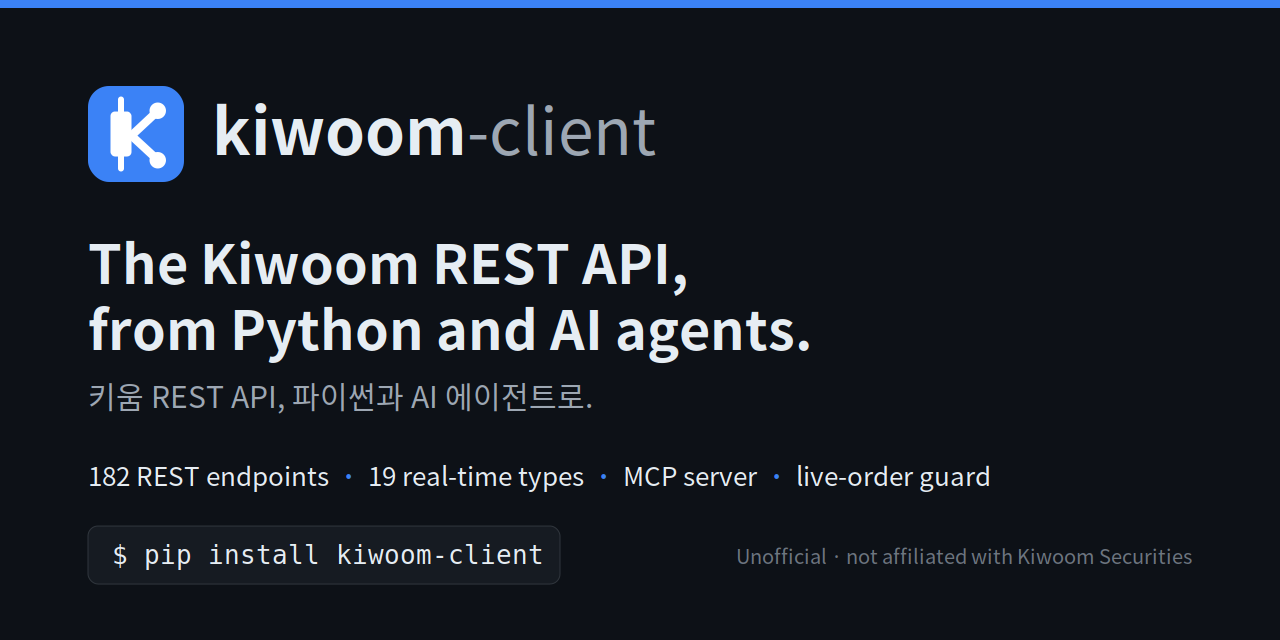
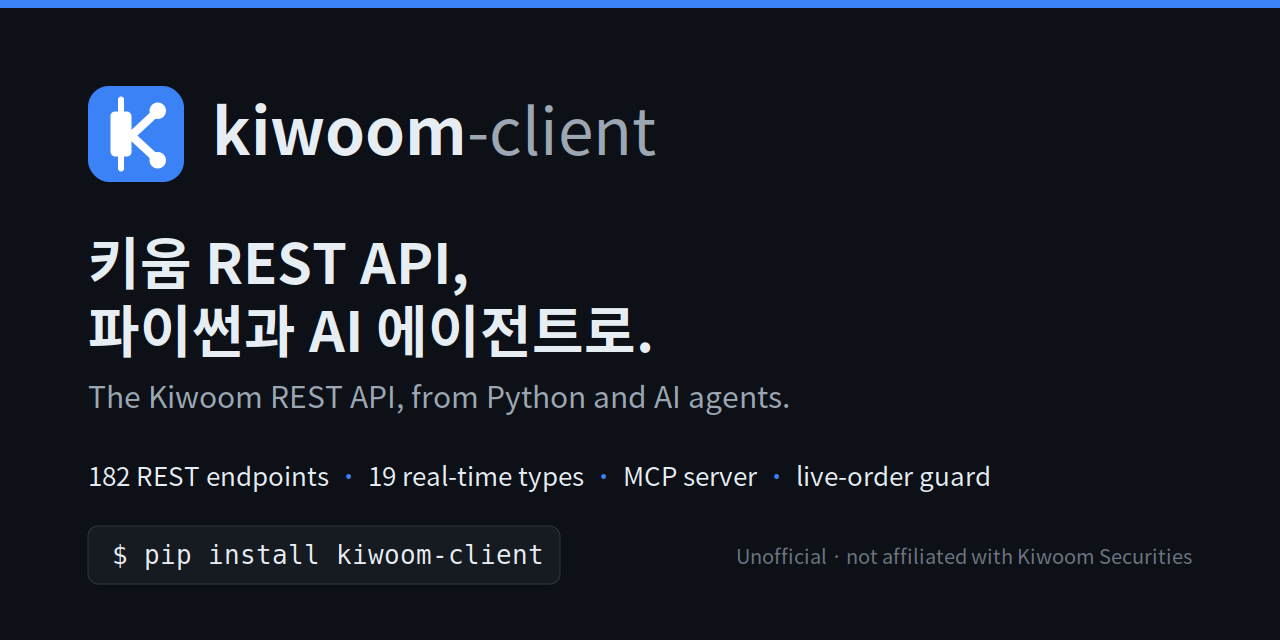
docs(brand): lead the social preview with the Korean README pitch
The README is Korean, but the social preview led with the English tagline and showed the README's pitch as a small grey subline, so Korean readers saw English first on shared cards. The Korean pitch is now the headline and the English one the subline; the counts still come from code and match the README (182 REST, 19 real-time).

Changed region(s): [[0.0625, 0.375, 0.6562, 0.5625], [0.0625, 0.5938, 0.625, 0.6562]]

diff --git a/scripts/make_social.py b/scripts/make_social.py
@@ -52,9 +52,10 @@ def svg() -> str:
         f'<tspan font-weight="700" fill="{p["ink"]}">kiwoom</tspan>'
         f'<tspan font-weight="400" fill="{p["ink2"]}">-client</tspan></text>',
         # 태그라인
-        t(m, 284, "The Kiwoom REST API,", 54, p["ink"], 700),
-        t(m, 350, "from Python and AI agents.", 54, p["ink"], 700),
-        t(m, 408, "키움 REST API, 파이썬과 AI 에이전트로.", 30, p["ink2"]),
+        # 한 줄 소개는 README 첫 줄 그대로(한국어 우선), 영어는 README.en.md 의 문구
+        t(m, 284, "키움 REST API,", 56, p["ink"], 700),
+        t(m, 352, "파이썬과 AI 에이전트로.", 56, p["ink"], 700),
+        t(m, 408, "The Kiwoom REST API, from Python and AI agents.", 30, p["ink2"]),
     ]
     # 사실 줄 (숫자는 코드에서 센 값)
     facts = [f"{n_rest} REST endpoints", f"{n_rt} real-time types", "MCP server", "live-order guard"]
